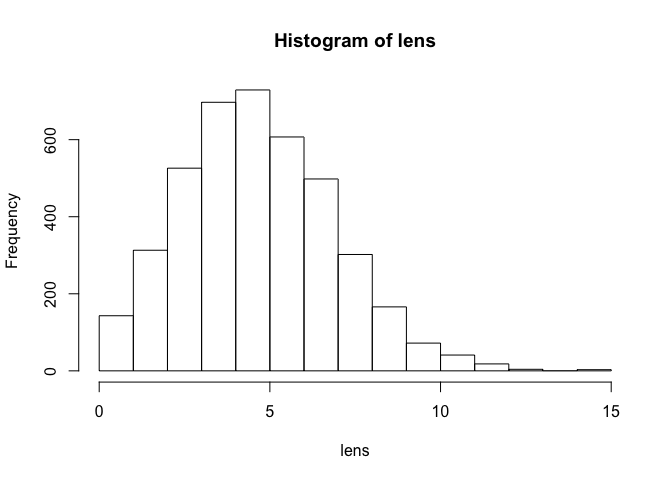
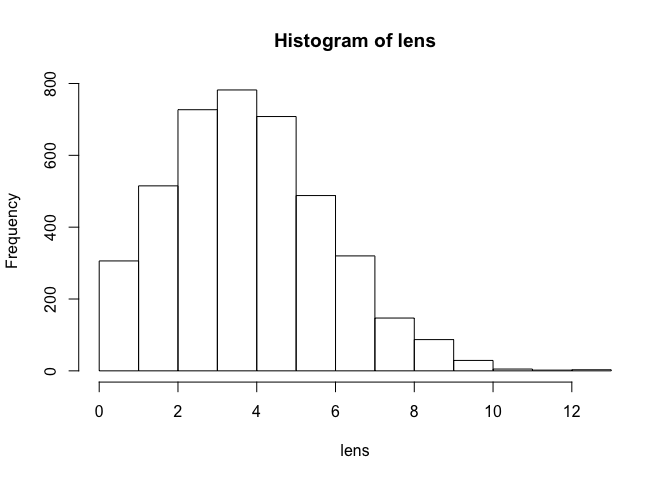
Add additional benchmarks for hash elements

diff --git a/README.md b/README.md
@@ -5,24 +5,20 @@ library(hashsize)
 # Load the tidyverse to populate the symbol table
 suppressPackageStartupMessages(library(tidyverse))
 
-buckets <- .Call(hashsize:::hashsize_symbols)
+buckets <- .Call(hashsize:::hashsize_symbols, 4119L)
 lens <- lengths(buckets)
 total <- sum(lens)
 total
-#> [1] 21283
+#> [1] 17666
 summary(lens)
 #>    Min. 1st Qu.  Median    Mean 3rd Qu.    Max. 
-#>   0.000   4.000   5.000   5.167   7.000  15.000
+#>   0.000   3.000   4.000   4.289   6.000  13.000
 hist(lens)
 ```
 
 ![](inst/README-example-1.png)
 
 ``` r
-
-largest_bucket <- symbols[lengths(symbols) == max(lengths(symbols))][[1]]
-
-largest_bucket <- symbols[lengths(symbols) >= 10]
 
 elapsed_time <- function(expr) system.time(expr)[[3]]
 
@@ -57,55 +53,77 @@ knitr::kable(
   to_df(replicate(50, time_large_bucket(buckets, 10, 5, 1e6), simplify = FALSE)))
 ```
 
-|     |  bucket\_length| front\_name                             |  front| back\_name                |   back| med\_name                       |    med| total   | median  |
-|-----|---------------:|:----------------------------------------|------:|:--------------------------|------:|:--------------------------------|------:|:--------|:--------|
-| 2   |              10| qs                                      |  0.014| sys.parent                |  0.048| strip.white                     |  0.037| 242.86% | 164.29% |
-| 210 |              12| R\_total\_handles                       |  0.033| enquote                   |  0.055| .\_\_T\_\_sqlData:DBI           |  0.042| 66.67%  | 27.27%  |
-| 3   |              10| augment.glmRob                          |  0.032| memory.profile            |  0.060| .midDend                        |  0.036| 87.50%  | 12.50%  |
-| 4   |              11| hashsize\_symbol\_table                 |  0.044| file.show                 |  0.053| $.output\_handler               |  0.044| 20.45%  | -0.00%  |
-| 5   |              12| ic.infer                                |  0.019| validate\_formulas        |  0.072| mpg                             |  0.024| 278.95% | 26.32%  |
-| 6   |              10| check\_names\_before\_after.default     |  0.053| .MakeImplicitGroupMembers |  0.074| .get\_S4\_generics              |  0.039| 39.62%  | -26.42% |
-| 7   |              10| parse\_time                             |  0.024| ..33                      |  0.048| .check\_packages                |  0.042| 100.00% | 75.00%  |
-| 8   |              10| GeomLine                                |  0.021| xtfrm.POSIXlt             |  0.051| DUMMY                           |  0.026| 142.86% | 23.81%  |
-| 9   |              11| durs                                    |  0.015| deletions                 |  0.050| bgcodes                         |  0.028| 233.33% | 86.67%  |
-| 10  |              10| te                                      |  0.017| qnf                       |  0.045| C\_stri\_enc\_set               |  0.039| 164.71% | 129.41% |
-| 11  |              12| set\_sliced\_env                        |  0.031| .Group                    |  0.057| stri\_read\_raw                 |  0.038| 83.87%  | 22.58%  |
-| 12  |              12| Period                                  |  0.016| as.Date.default           |  0.069| select\_.data.frame             |  0.042| 331.25% | 162.50% |
-| 13  |              10| fortify.default                         |  0.029| ans                       |  0.044| .\_\_T\_\_remote\_remove:git2r  |  0.053| 51.72%  | 82.76%  |
-| 14  |              10| fortify.default                         |  0.028| ans                       |  0.042| .\_\_T\_\_remote\_remove:git2r  |  0.055| 50.00%  | 96.43%  |
-| 15  |              13| tidy.SpatialLinesDataFrame              |  0.044| rl\_word\_breaks          |  0.069| found\_src                      |  0.034| 56.82%  | -22.73% |
-| 16  |              10| milliseconds                            |  0.027| getElement                |  0.049| stri\_trans\_nfd                |  0.038| 81.48%  | 40.74%  |
-| 17  |              10| parser\_setMethodS3                     |  0.033| env::406                  |  0.045| sort\_                          |  0.026| 36.36%  | -21.21% |
-| 18  |              10| augment.glmRob                          |  0.030| memory.profile            |  0.057| .midDend                        |  0.035| 90.00%  | 16.67%  |
-| 19  |              13| commonmark                              |  0.022| .rowMeans                 |  0.056| tbl\_vars.tbl\_lazy             |  0.046| 154.55% | 109.09% |
-| 20  |              12| dmicroseconds                           |  0.027| package\_coverage         |  0.066| Variogram                       |  0.036| 144.44% | 33.33%  |
-| 21  |              11| freq1                                   |  0.016| comment&lt;-              |  0.056| call\_depth                     |  0.032| 250.00% | 100.00% |
-| 22  |              10| qs                                      |  0.013| sys.parent                |  0.049| strip.white                     |  0.041| 276.92% | 215.38% |
-| 23  |              12| package\_desc                           |  0.030| tolower                   |  0.055| format.PDF\_Indirect\_Reference |  0.062| 83.33%  | 106.67% |
-| 24  |              12| Period                                  |  0.016| as.Date.default           |  0.073| select\_.data.frame             |  0.043| 356.25% | 168.75% |
-| 25  |              12| bad\_vignettebuilder                    |  0.043| droplevels                |  0.058| geom\_step                      |  0.031| 34.88%  | -27.91% |
-| 26  |              11| URL                                     |  0.014| as.data.frame.complex     |  0.059| statsBy.boot                    |  0.036| 321.43% | 157.14% |
-| 27  |              10| nvars                                   |  0.016| .tryResumeInterrupt       |  0.061| 5                               |  0.023| 281.25% | 43.75%  |
-| 28  |              12| Hmisc                                   |  0.016| package.lib               |  0.060| residuals.gnls                  |  0.044| 275.00% | 175.00% |
-| 29  |              15| Geom                                    |  0.017| sort.list                 |  0.065| .GridEvalEnv                    |  0.037| 282.35% | 117.65% |
-| 30  |              11| .Last.lib                               |  0.025| standardGeneric           |  0.059| gh\_pkgs                        |  0.028| 136.00% | 12.00%  |
-| 31  |              11| reclass\_date.Date                      |  0.032| sample                    |  0.047| stri\_endswith\_fixed           |  0.046| 46.87%  | 43.75%  |
-| 32  |              12| lzw+p                                   |  0.019| update\_packages          |  0.058| scale\_x\_sqrt                  |  0.035| 205.26% | 84.21%  |
-| 33  |              10| sloti                                   |  0.016| getExtends                |  0.050| grid.xaxis                      |  0.037| 212.50% | 131.25% |
-| 34  |              11| .Last.lib                               |  0.020| standardGeneric           |  0.056| gh\_pkgs                        |  0.029| 180.00% | 45.00%  |
-| 35  |              10| parser\_setMethodS3                     |  0.034| env::406                  |  0.047| sort\_                          |  0.025| 38.24%  | -26.47% |
-| 36  |              12| Period                                  |  0.020| as.Date.default           |  0.071| select\_.data.frame             |  0.046| 255.00% | 130.00% |
-| 37  |              11| round.table                             |  0.024| saveToConn                |  0.054| calculateGridLayout             |  0.044| 125.00% | 83.33%  |
-| 38  |              10| sloti                                   |  0.015| getExtends                |  0.054| grid.xaxis                      |  0.036| 260.00% | 140.00% |
-| 39  |              11| match\_data\_from\_pos\_and\_len        |  0.048| dynGet                    |  0.052| dbDisconnect                    |  0.042| 8.33%   | -12.50% |
-| 40  |              15| Geom                                    |  0.015| sort.list                 |  0.062| .GridEvalEnv                    |  0.034| 313.33% | 126.67% |
-| 41  |              10| length.Rd                               |  0.021| \[.numeric\_version       |  0.058| notifyLocalFun                  |  0.038| 176.19% | 80.95%  |
-| 42  |              10| tidy.fitdistr                           |  0.029| env::206                  |  0.048| find\_index\_check              |  0.040| 65.52%  | 37.93%  |
-| 43  |              11| bad\_authors\_at\_R\_field\_for\_author |  0.060| bounds                    |  0.047| pdConstruct.pdCompSymm          |  0.050| -21.67% | -16.67% |
-| 44  |              12| node\_comment\_new                      |  0.030| env::150                  |  0.052| flattenListing                  |  0.038| 73.33%  | 26.67%  |
-| 45  |              10| roclet\_output.roclet\_rd               |  0.040| dist                      |  0.042| coef.corNatural                 |  0.041| 5.00%   | 2.50%   |
-| 46  |              11| set\_partition\_order                   |  0.037| .Class                    |  0.053| page\_str                       |  0.029| 43.24%  | -21.62% |
-| 47  |              10| curl\_fetch\_disk                       |  0.029| file.link                 |  0.047| lookup\_S4\_methods             |  0.040| 62.07%  | 37.93%  |
-| 48  |              10| splusTimeSeries                         |  0.028| C\_qpois                  |  0.044| print.select\_query             |  0.044| 57.14%  | 57.14%  |
-| 49  |              11| ElectoGraph                             |  0.023| .\_\_C\_\_hsearch         |  0.063| stri\_replace\_first\_charclass |  0.058| 173.91% | 152.17% |
-| 50  |              10| classi                                  |  0.016| .External                 |  0.046| fetch\_source.bioc              |  0.041| 187.50% | 156.25% |
+|     |  bucket\_length| front\_name                |  front| back\_name                       |   back| med\_name                       |    med| total   | median  |
+|-----|---------------:|:---------------------------|------:|:---------------------------------|------:|:--------------------------------|------:|:--------|:--------|
+| 2   |              11| as.hms.numeric             |  0.032| textConnectionValue              |  0.065| .\_\_T\_\_sqlParseVariables:DBI |  0.064| 103.12% | 100.00% |
+| 210 |              10| Date\#Duration             |  0.030| within.data.frame                |  0.062| repair\_names                   |  0.036| 106.67% | 20.00%  |
+| 3   |              10| R\_validate                |  0.027| .Class                           |  0.048| generator\_funs                 |  0.039| 77.78%  | 44.44%  |
+| 4   |              10| epi.bfi                    |  0.017| getDLLRegisteredRoutines.DLLInfo |  0.087| f1                              |  0.024| 411.76% | 41.18%  |
+| 5   |              10| intervals                  |  0.020| system                           |  0.043| print.check\_packages\_in\_dir  |  0.058| 115.00% | 190.00% |
+| 6   |              10| xml\_ns.xml\_document      |  0.035| blues9                           |  0.042| useHash                         |  0.028| 20.00%  | -20.00% |
+| 7   |              10| circadian.phase            |  0.029| is.stepfun                       |  0.051| grid.rect                       |  0.031| 75.86%  | 6.90%   |
+| 8   |              10| lift\_ld                   |  0.017| .DollarNames.default             |  0.056| %||%                            |  0.026| 229.41% | 52.94%  |
+| 9   |              10| TokenServiceAccount        |  0.041| R\_system\_version               |  0.058| add1                            |  0.026| 41.46%  | -36.59% |
+| 10  |              10| as\_list.xml\_nodeset      |  0.036| as.data.frame.numeric\_version   |  0.083| hook\_purl                      |  0.040| 130.56% | 11.11%  |
+| 11  |              10| xml\_ns.xml\_document      |  0.042| blues9                           |  0.044| useHash                         |  0.029| 4.76%   | -30.95% |
+| 12  |              10| xml\_ns.xml\_document      |  0.039| blues9                           |  0.042| useHash                         |  0.028| 7.69%   | -28.21% |
+| 13  |              10| log2\_trans                |  0.025| Title                            |  0.044| simpleFormals                   |  0.038| 76.00%  | 52.00%  |
+| 14  |              10| seq\_mnsl                  |  0.022| anyDuplicated.matrix             |  0.059| impMethods                      |  0.032| 168.18% | 45.45%  |
+| 15  |              11| dmicroseconds              |  0.026| setRepositories                  |  0.054| Variogram                       |  0.031| 107.69% | 19.23%  |
+| 16  |              10| Period                     |  0.018| as.Date.default                  |  0.057| select\_.data.frame             |  0.047| 216.67% | 161.11% |
+| 17  |              10| GeomLine                   |  0.023| xtfrm.POSIXlt                    |  0.051| DUMMY                           |  0.026| 121.74% | 13.04%  |
+| 18  |              10| lift\_ld                   |  0.018| .DollarNames.default             |  0.057| %||%                            |  0.025| 216.67% | 38.89%  |
+| 19  |              10| Period                     |  0.017| as.Date.default                  |  0.058| select\_.data.frame             |  0.049| 241.18% | 188.24% |
+| 20  |              10| tidy.ftable                |  0.024| qnt                              |  0.044| refMethodDef\#function          |  0.050| 83.33%  | 108.33% |
+| 21  |              10| seq\_mnsl                  |  0.023| anyDuplicated.matrix             |  0.059| impMethods                      |  0.032| 156.52% | 39.13%  |
+| 22  |              10| reclass\_date.POSIXlt      |  0.041| :::                              |  0.042| S3Part&lt;-                     |  0.029| 2.44%   | -29.27% |
+| 23  |              10| TokenServiceAccount        |  0.044| R\_system\_version               |  0.058| add1                            |  0.026| 31.82%  | -40.91% |
+| 24  |              11| write\_xml.xml\_nodeset    |  0.040| ..59                             |  0.045| stri\_extract                   |  0.037| 12.50%  | -7.50%  |
+| 25  |              11| as.hms.numeric             |  0.032| textConnectionValue              |  0.064| .\_\_T\_\_sqlParseVariables:DBI |  0.064| 100.00% | 100.00% |
+| 26  |              10| epi.bfi                    |  0.017| getDLLRegisteredRoutines.DLLInfo |  0.087| f1                              |  0.024| 411.76% | 41.18%  |
+| 27  |              10| xml\_ns.xml\_document      |  0.035| blues9                           |  0.047| useHash                         |  0.033| 34.29%  | -5.71%  |
+| 28  |              11| as.hms.numeric             |  0.031| textConnectionValue              |  0.064| .\_\_T\_\_sqlParseVariables:DBI |  0.064| 106.45% | 106.45% |
+| 29  |              10| circular                   |  0.020| Sys.setFileTime                  |  0.064| tick\_non\_syntactic            |  0.048| 220.00% | 140.00% |
+| 30  |              10| tidy.density               |  0.035| &lt;.R\_system\_version          |  0.062| as.raster.array                 |  0.047| 77.14%  | 34.29%  |
+| 31  |              10| tidy.ftable                |  0.024| qnt                              |  0.044| refMethodDef\#function          |  0.053| 83.33%  | 120.83% |
+| 32  |              10| R\_validate                |  0.025| .Class                           |  0.044| generator\_funs                 |  0.045| 76.00%  | 80.00%  |
+| 33  |              10| modulo\_period\_by\_period |  0.045| as.data.frame.integer            |  0.058| on\_failure&lt;-                |  0.036| 28.89%  | -20.00% |
+| 34  |              10| TokenServiceAccount        |  0.040| R\_system\_version               |  0.057| add1                            |  0.030| 42.50%  | -25.00% |
+| 35  |              10| circadian.phase            |  0.029| is.stepfun                       |  0.049| grid.rect                       |  0.031| 68.97%  | 6.90%   |
+| 36  |              10| intervals                  |  0.020| system                           |  0.042| print.check\_packages\_in\_dir  |  0.059| 110.00% | 195.00% |
+| 37  |              10| parse\_time                |  0.023| ..33                             |  0.040| Module\_\_functions\_names      |  0.052| 73.91%  | 126.09% |
+| 38  |              10| modulo\_period\_by\_period |  0.048| as.data.frame.integer            |  0.058| on\_failure&lt;-                |  0.036| 20.83%  | -25.00% |
+| 39  |              10| reclass\_date.POSIXlt      |  0.045| :::                              |  0.043| S3Part&lt;-                     |  0.030| -4.44%  | -33.33% |
+| 40  |              12| signifNum                  |  0.025| gl                               |  0.054| paged\_table\_type\_sum         |  0.049| 116.00% | 96.00%  |
+| 41  |              10| is.namedlistnotdf          |  0.033| machine                          |  0.044| table2matrix                    |  0.037| 33.33%  | 12.12%  |
+| 42  |              10| xml\_find\_all             |  0.027| tolower                          |  0.052| CRAN\_baseurl\_for\_src\_area   |  0.055| 92.59%  | 103.70% |
+| 43  |              10| xml\_ns.xml\_document      |  0.036| blues9                           |  0.043| useHash                         |  0.032| 19.44%  | -11.11% |
+| 44  |              10| lift\_ld                   |  0.021| .DollarNames.default             |  0.058| %||%                            |  0.026| 176.19% | 23.81%  |
+| 45  |              10| circadian.phase            |  0.028| is.stepfun                       |  0.050| grid.rect                       |  0.033| 78.57%  | 17.86%  |
+| 46  |              12| signifNum                  |  0.022| gl                               |  0.056| paged\_table\_type\_sum         |  0.053| 154.55% | 140.91% |
+| 47  |              11| as.hms.numeric             |  0.033| textConnectionValue              |  0.068| .\_\_T\_\_sqlParseVariables:DBI |  0.070| 106.06% | 112.12% |
+| 48  |              10| GeomLine                   |  0.026| xtfrm.POSIXlt                    |  0.063| DUMMY                           |  0.031| 142.31% | 19.23%  |
+| 49  |              11| dmicroseconds              |  0.028| setRepositories                  |  0.063| Variogram                       |  0.033| 125.00% | 17.86%  |
+| 50  |              11| .duration\_from\_num       |  0.040| .Group                           |  0.050| stri\_read\_raw                 |  0.040| 25.00%  | 0.00%   |
+
+Performance between current `HSIZE` and larger `HSIZE`.
+=======================================================
+
+<inst/script.R> has a simple benchmark, to compare between the current value and a larger one. The benchmark looks up every symbol in the hash a certain number of times (10,000 in this example).
+
+``` shell
+R --version
+# R Under development (unstable) (2017-05-16 r72682) -- "Unsuffered Consequences"
+
+# Current HSIZE (4119)
+Rscript inst/script.R 4119 $((10**4))
+# [1] 15959
+#    user  system elapsed
+#   5.245   0.005   5.252
+
+# HSIZE of 2^16 (65536)
+Rscript inst/script.R $((2**16)) $((10**4))
+# [1] 16093
+#    user  system elapsed
+#   4.280   0.007   4.288
+```
